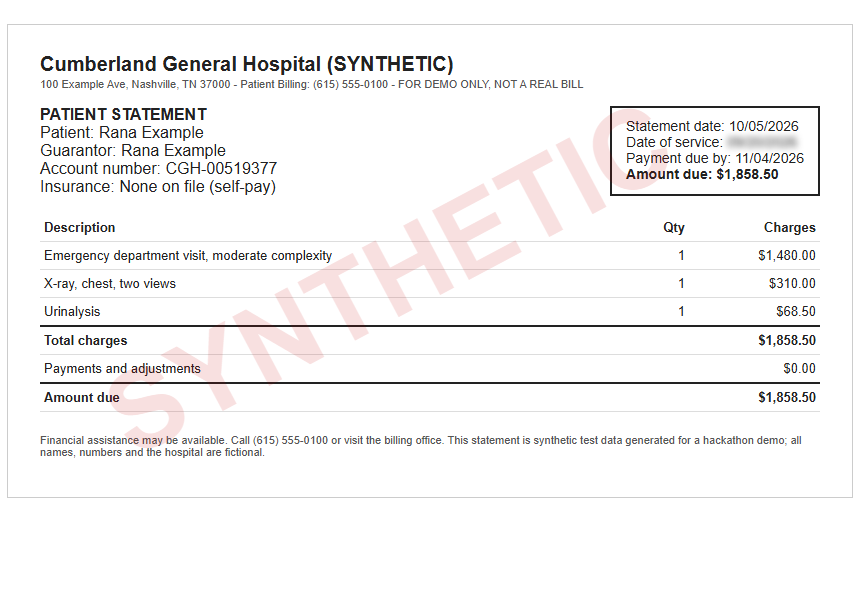
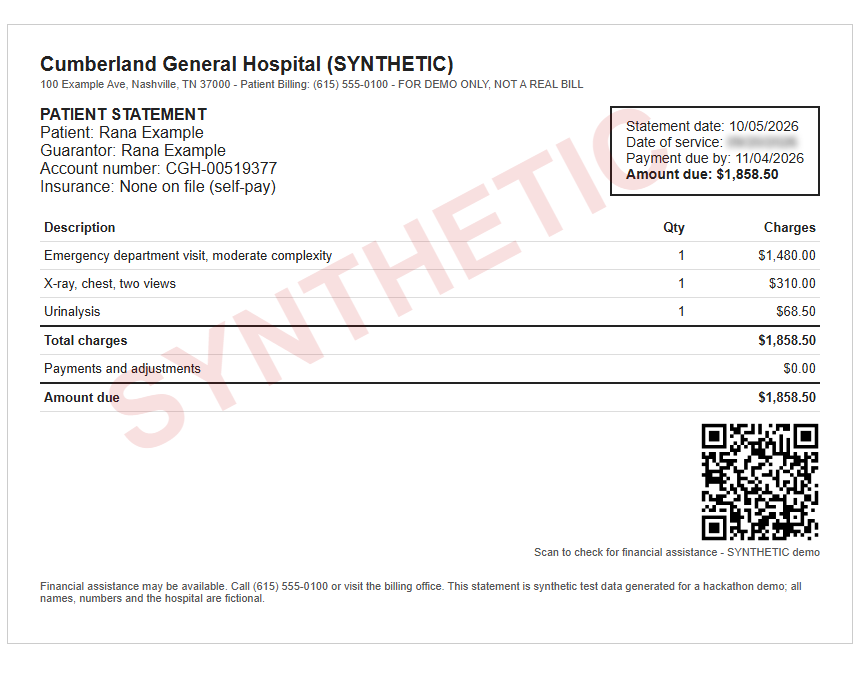
QR on synthetic bill-02 and re-rendered blur variants (F10.4)

Changed region(s): [[0.0302, 0.03, 0.9674, 0.9]]

diff --git a/spikes/synthetic-bill/bill-02.html b/spikes/synthetic-bill/bill-02.html
@@ -15,6 +15,7 @@
   td.n, th.n { text-align: right; }
   .box { border: 2px solid #222; padding: 10px 14px; font-size: 14px; }
   .total td { font-weight: bold; border-top: 2px solid #222; }
+  .qr { text-align: right; margin-top: 10px; }
 </style>
 </head>
 <body>
@@ -49,10 +50,17 @@
     <tr class="total"><td>Amount due</td><td></td><td class="n">$1,858.50</td></tr>
   </table>
 
+  <div class="qr"><img id="qr" alt="QR code" width="120" height="120"><div class="small">Scan to check for financial assistance - SYNTHETIC demo</div></div>
+
   <p class="small" style="margin-top:22px">Financial assistance may be available. Call (615) 555-0100 or visit the
   billing office. This statement is synthetic test data generated for a hackathon demo; all names, numbers and
   the hospital are fictional.</p>
 </div>
+<script src="../../app/static/vendor/qrcode-generator/qrcode.js"></script>
+<script>
+  var q = qrcode(0, 'M'); q.addData('http://207.211.181.174/?hospital=cumberland_synthetic'); q.make();
+  document.getElementById('qr').src = q.createDataURL(4, 2);
+</script>
 <script>
   var m = /blur=([0-9.]+)/.exec(location.hash);
   if (m) { document.getElementById('dos').style.filter = 'blur(' + m[1] + 'px)'; }
